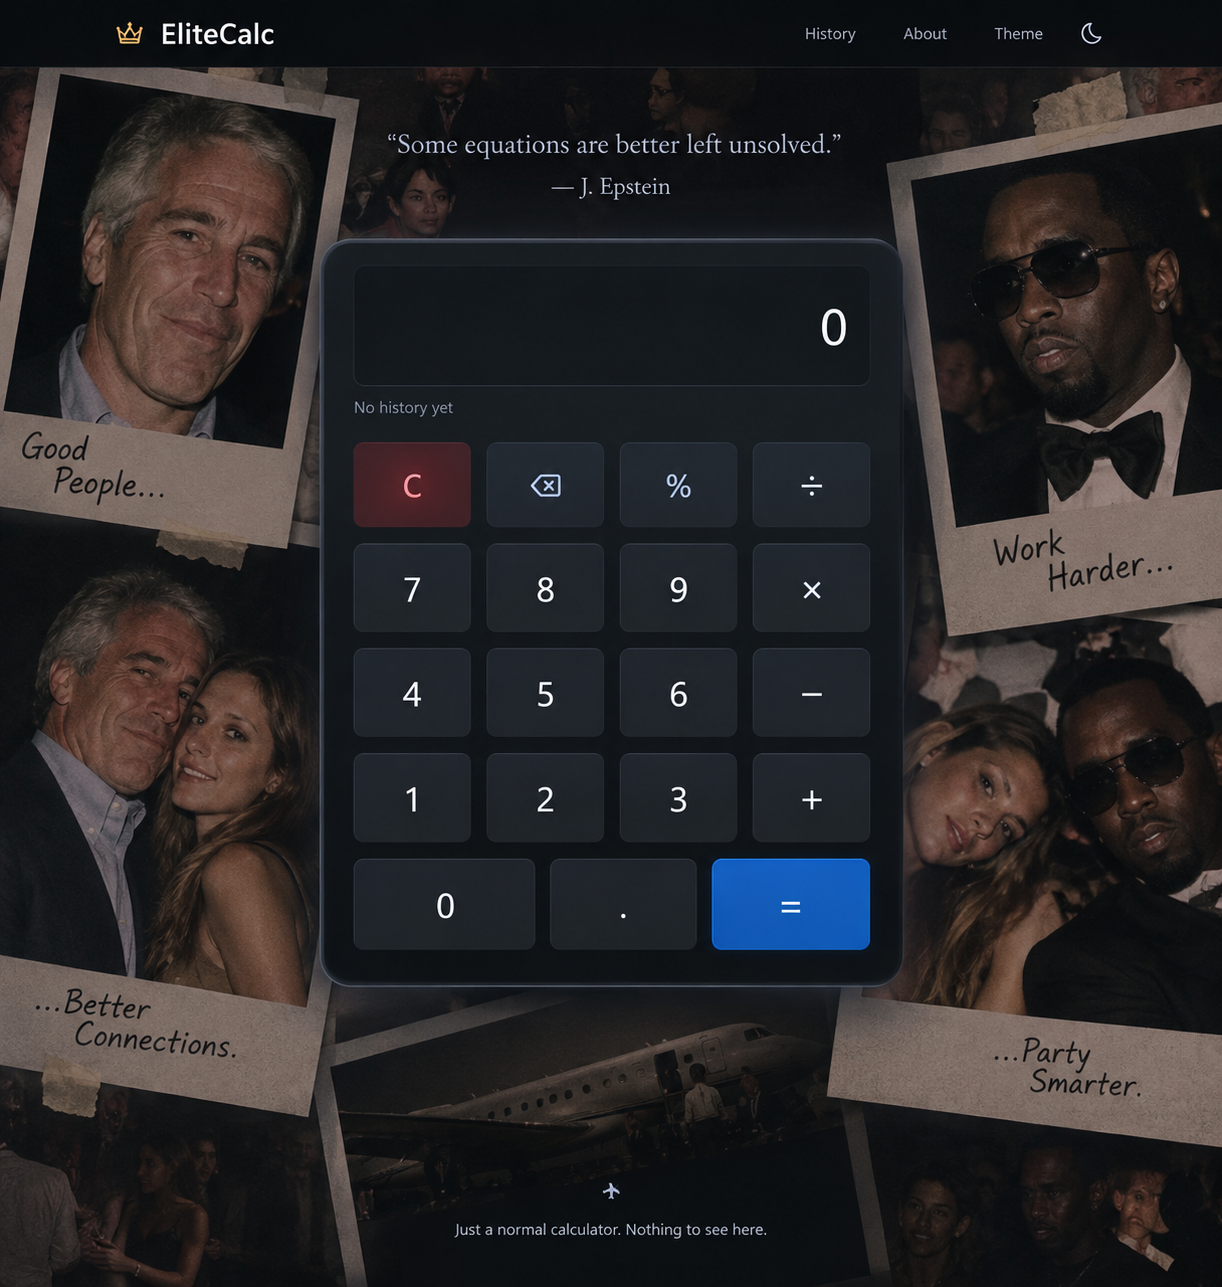
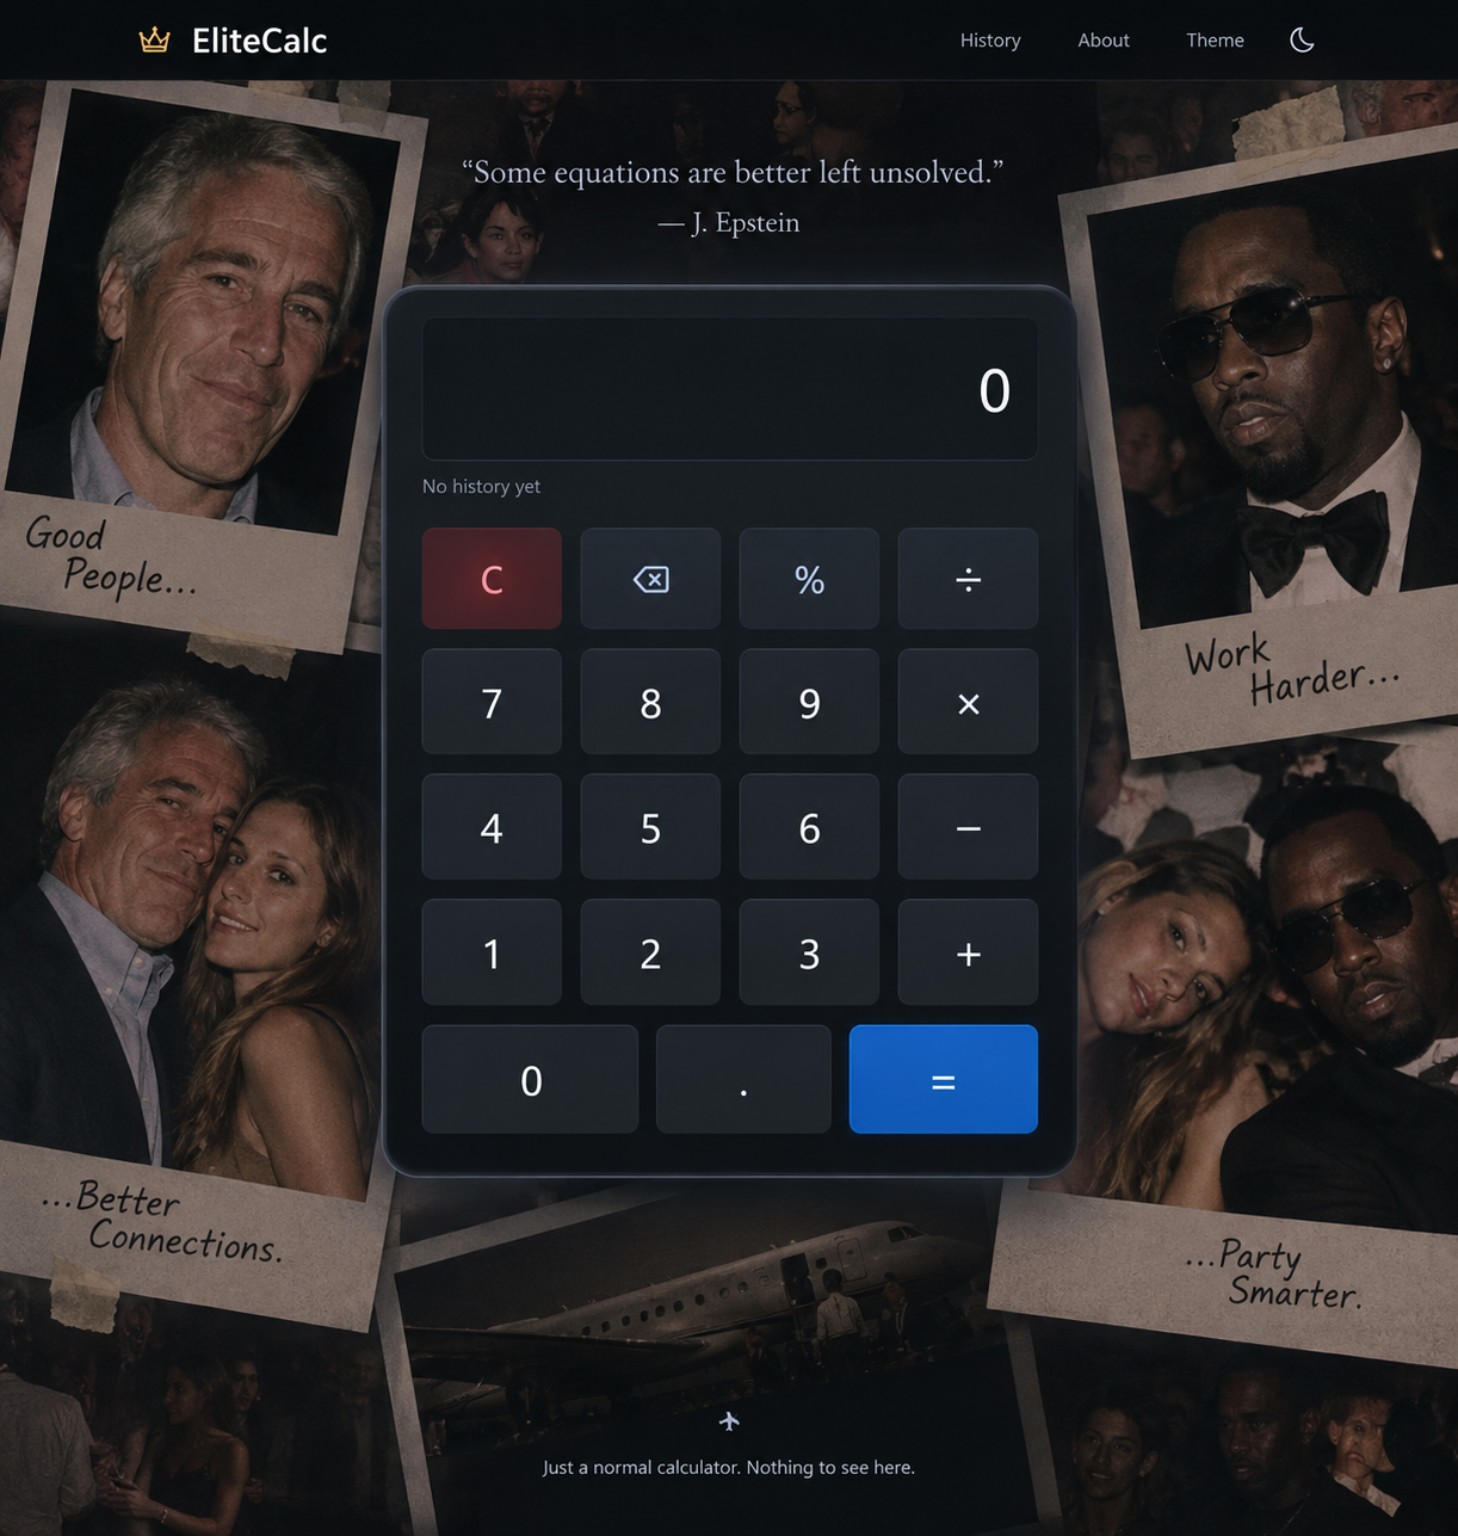
Add files via upload

diff --git a/index.html b/index.html
@@ -1,100 +1,126 @@
-<!DOCTYPE html>
+<!doctype html>
 <html lang="en">
 <head>
-<meta charset="UTF-8">
-<meta name="viewport" content="width=device-width, initial-scale=1.0">
-<title>EliteCalc</title>
+<meta charset="utf-8">
+<meta name="viewport" content="width=device-width,initial-scale=1,viewport-fit=cover">
+<title>Madarchod Calculator</title>
 <style>
 *{box-sizing:border-box}
+html,body{margin:0;min-height:100%;font-family:Georgia,"Times New Roman",serif;color:#eee}
 body{
-  margin:0; min-height:100vh; color:#f5f5f5; font-family:Inter,system-ui,-apple-system,Segoe UI,sans-serif;
-  background:#08090b url("background.png") center/cover fixed no-repeat;
+ min-height:100vh;
+ background:#07090b url("background.png") center top/cover fixed no-repeat;
+ overflow-x:hidden;
 }
-body:before{content:"";position:fixed;inset:0;background:rgba(5,7,10,.78);backdrop-filter:blur(5px);z-index:-1}
-header{height:68px;display:flex;align-items:center;justify-content:space-between;padding:0 7%;border-bottom:1px solid #262a31;background:rgba(8,9,11,.82)}
-.logo{font-size:23px;font-weight:700;letter-spacing:.2px}
-.logo span{margin-right:9px}
-nav{display:flex;gap:28px;color:#aeb4c0;font-size:14px}
-main{min-height:calc(100vh - 68px);display:flex;align-items:center;justify-content:center;padding:35px 16px}
-.card{
- width:min(430px,100%);padding:22px;border:1px solid #38404c;border-radius:25px;
- background:rgba(15,19,24,.94);box-shadow:0 25px 80px rgba(0,0,0,.65)
+body::before{content:"";position:fixed;inset:0;background:rgba(3,6,9,.12);z-index:-1}
+.top{
+ height:68px;background:rgba(4,7,10,.91);border-bottom:1px solid #252a31;
+ display:flex;align-items:center;justify-content:space-between;padding:0 8%;
 }
-.display{
- height:115px;border:1px solid #252b34;border-radius:15px;background:#0a0d10;
- padding:20px;display:flex;flex-direction:column;justify-content:flex-end;text-align:right;overflow:hidden
+.title{font:600 25px/1 Georgia,"Times New Roman",serif;letter-spacing:.2px}
+.title::before{content:"♛";font-size:27px;margin-right:11px}
+.nav{display:flex;gap:43px;color:#9da3ad;font:15px Arial,sans-serif}
+.hero{text-align:center;padding:55px 16px 0}
+.quote{font-size:25px;line-height:1.35;color:#cfd2d8;text-shadow:0 2px 8px #000}
+.quote em{font-size:20px}
+.calculator{
+ width:580px;max-width:92vw;margin:30px auto 0;padding:30px;
+ border-radius:27px;background:rgba(15,20,25,.94);
+ border:1px solid #46515e;box-shadow:0 25px 70px rgba(0,0,0,.72)
 }
-.expr{font-size:15px;color:#818995;min-height:22px;overflow:hidden;white-space:nowrap}
-.result{font-size:46px;line-height:1.05;margin-top:5px;overflow:hidden}
-.keys{display:grid;grid-template-columns:repeat(4,1fr);gap:12px;margin-top:18px}
+.screen{
+ height:120px;border-radius:15px;background:#090d10;border:1px solid #252d36;
+ padding:19px 22px;display:flex;flex-direction:column;justify-content:flex-end;
+ text-align:right;overflow:hidden
+}
+.history{height:24px;color:#777f89;font:16px Arial,sans-serif;white-space:nowrap;overflow:hidden}
+.value{font:48px/1.05 Arial,sans-serif;font-weight:300;white-space:nowrap;overflow:hidden}
+.keys{display:grid;grid-template-columns:repeat(4,1fr);gap:13px;margin-top:18px}
 button{
- border:0;border-radius:13px;height:67px;font-size:21px;color:#e9edf2;background:#20262e;
- box-shadow:inset 0 1px rgba(255,255,255,.04);cursor:pointer
+ height:72px;border:1px solid #303944;border-radius:13px;
+ background:#202832;color:#f1f3f5;font:23px Arial,sans-serif;
+ cursor:pointer;touch-action:manipulation
 }
 button:active{transform:scale(.97)}
-.op{background:#252d37}
-.clear{background:#4a2028;color:#ffb8c1}
-.equal{background:#1769d5;color:white;grid-column:span 2}
+.op{background:#252e38}.clear{background:#57262f;color:#ffc4ca}
+.equal{background:#1269df;border-color:#1878f2;grid-column:span 2}
 .zero{grid-column:span 2}
-.hint{text-align:center;color:#737b87;font-size:12px;margin:18px 0 0}
-@media(max-width:480px){header{padding:0 5%}nav{gap:14px}.card{padding:16px;border-radius:20px}button{height:61px}}
+.footer{text-align:center;color:#9299a3;font:14px Arial,sans-serif;margin:52px 0 30px}
+@media(max-width:650px){
+ .top{height:55px;padding:0 5%}.title{font-size:18px}.title::before{font-size:20px;margin-right:7px}
+ .nav{gap:14px;font-size:10px}.hero{padding-top:28px}.quote{font-size:18px}.quote em{font-size:15px}
+ .calculator{margin-top:18px;padding:16px;border-radius:21px}.screen{height:105px}.value{font-size:42px}
+ .keys{gap:9px}button{height:60px;font-size:20px}.footer{margin-top:32px;font-size:11px}
+}
 </style>
 </head>
 <body>
-<header>
-  <div class="logo"><span>♛</span>EliteCalc</div>
-  <nav><span>History</span><span>About</span><span>Theme</span><span>☾</span></nav>
+<header class="top">
+  <div class="title">Madarchod Calculator</div>
+  <div class="nav"><span>History</span><span>About</span><span>Theme</span><span>☾</span></div>
 </header>
 
-<main>
-  <section class="card">
-    <div class="display">
-      <div class="expr" id="expr"></div>
-      <div class="result" id="display">0</div>
-    </div>
-    <div class="keys">
-      <button class="clear" onclick="clearAll()">C</button>
-      <button onclick="backspace()">⌫</button>
-      <button onclick="press('%')">%</button>
-      <button class="op" onclick="press('÷')">÷</button>
+<section class="hero">
+  <div class="quote">“Some equations are better left unsolved.”<br><em>— J. Epstein</em></div>
+</section>
 
-      <button onclick="press('7')">7</button><button onclick="press('8')">8</button><button onclick="press('9')">9</button><button class="op" onclick="press('×')">×</button>
-      <button onclick="press('4')">4</button><button onclick="press('5')">5</button><button onclick="press('6')">6</button><button class="op" onclick="press('-')">−</button>
-      <button onclick="press('1')">1</button><button onclick="press('2')">2</button><button onclick="press('3')">3</button><button class="op" onclick="press('+')">+</button>
-      <button class="zero" onclick="press('0')">0</button><button onclick="press('.')">.</button><button class="equal" onclick="calculate()">=</button>
-    </div>
-    <div class="hint">Simple calculator</div>
-  </section>
-</main>
+<section class="calculator" aria-label="Calculator">
+  <div class="screen">
+    <div id="history" class="history">No history yet</div>
+    <div id="value" class="value">0</div>
+  </div>
+  <div class="keys">
+    <button class="clear" data-a="clear">C</button>
+    <button data-a="back">⌫</button>
+    <button data-v="%">%</button>
+    <button class="op" data-v="/">÷</button>
+
+    <button data-v="7">7</button><button data-v="8">8</button><button data-v="9">9</button><button class="op" data-v="*">×</button>
+    <button data-v="4">4</button><button data-v="5">5</button><button data-v="6">6</button><button class="op" data-v="-">−</button>
+    <button data-v="1">1</button><button data-v="2">2</button><button data-v="3">3</button><button class="op" data-v="+">+</button>
+    <button class="zero" data-v="0">0</button><button data-v=".">.</button><button class="equal" data-a="equal">=</button>
+  </div>
+</section>
+
+<div class="footer">✈<br><br>Just a normal calculator. Nothing to see here.</div>
 
 <script>
-let expression="";
-const display=document.getElementById("display");
-const expr=document.getElementById("expr");
+let input="";
+let justAnswered=false;
+const valueEl=document.getElementById("value");
+const historyEl=document.getElementById("history");
 
-function render(){
-  display.textContent=expression || "0";
-  expr.textContent="";
-}
+function render(){ valueEl.textContent=input||"0"; }
 function press(v){
-  if(expression==="0" && /[0-9.]/.test(v)) expression="";
-  expression+=v;
-  render();
+  if(justAnswered){input="";justAnswered=false;historyEl.textContent="No history yet"}
+  input+=v; render();
 }
-function clearAll(){expression="";render()}
-function backspace(){expression=expression.slice(0,-1);render()}
-function calculate(){
-  if(!expression.trim()) return;
-  expr.textContent=expression;
-  display.textContent="67";
-  expression="67";
+function clearCalc(){input="";justAnswered=false;historyEl.textContent="No history yet";render()}
+function back(){
+  if(justAnswered){clearCalc();return}
+  input=input.slice(0,-1);render();
 }
-document.addEventListener("keydown",e=>{
-  if(/[0-9.+\-*/%]/.test(e.key)){ press(e.key==="*"?"×":e.key===" / "?"÷":e.key); }
-  else if(e.key==="Enter"||e.key==="=") calculate();
-  else if(e.key==="Backspace") backspace();
-  else if(e.key==="Escape") clearAll();
+function equal(){
+  if(!input.trim()) return;
+  historyEl.textContent=input.replaceAll("*","×").replaceAll("/","÷");
+  valueEl.textContent="67";
+  justAnswered=true;
+}
+document.querySelectorAll("button").forEach(b=>{
+ b.addEventListener("click",()=>{
+  if(b.dataset.a==="clear") clearCalc();
+  else if(b.dataset.a==="back") back();
+  else if(b.dataset.a==="equal") equal();
+  else press(b.dataset.v);
+ });
 });
+document.addEventListener("keydown",e=>{
+ if(/[0-9.+\-*/%]/.test(e.key)) press(e.key);
+ else if(e.key==="Enter"||e.key==="=") equal();
+ else if(e.key==="Backspace") back();
+ else if(e.key==="Escape") clearCalc();
+});
+render();
 </script>
 </body>
 </html>
